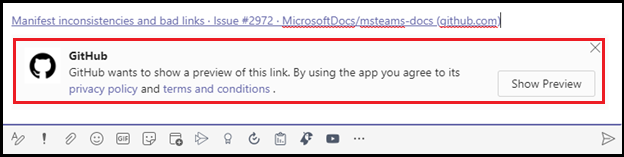
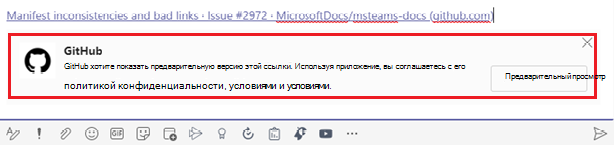
commit translated contents

Changed region(s): [[0.0, 0.0, 1.0, 1.0]]

diff --git a/msteams-platform/messaging-extensions/how-to/link-unfurling.md b/msteams-platform/messaging-extensions/how-to/link-unfurling.md
@@ -2,15 +2,15 @@
 title: Развертывание ссылки
 author: surbhigupta
 description: Узнайте, как добавить развертывание ссылок с расширением для сообщений в приложении Microsoft Teams с манифестом приложения или вручную с помощью примеров кода и образцов.
-ms.localizationpriority: high
+ms.localizationpriority: medium
 ms.topic: conceptual
 ms.author: anclear
-ms.openlocfilehash: b172320f6f116026fe5ea4b45c9c74da6ff82f07
-ms.sourcegitcommit: f15bd0e90eafb00e00cf11183b129038de8354af
+ms.openlocfilehash: 09b8447e68a07e98293409e6c371a301da3017d0
+ms.sourcegitcommit: 430bf416bb8d1b74f926c8b5d5ffd3dbb0782286
 ms.translationtype: HT
 ms.contentlocale: ru-RU
-ms.lasthandoff: 04/28/2022
-ms.locfileid: "65111250"
+ms.lasthandoff: 05/10/2022
+ms.locfileid: "65297186"
 ---
 # <a name="link-unfurling"></a>Развертывание ссылки
 
@@ -25,7 +25,7 @@ ms.locfileid: "65111250"
 
 Расширение для сообщений Azure DevOps использует развертывание ссылок для поиска URL-адресов, вставленных в область создания сообщений, указывающих на рабочий элемент. На следующем изображении пользователь вставил URL-адрес для рабочего элемента в Azure DevOps, который расширение для сообщения разрешило в карточку:
 
-![Пример развертывания ссылки](~/assets/images/compose-extensions/messagingextensions_linkunfurling.png)
+:::image type="content" source="~/assets/images/compose-extensions/messagingextensions_linkunfurling.png" alt-text="Пример развертывания ссылки":::
 
 ## <a name="add-link-unfurling-to-your-app-manifest"></a>Добавление развертывания ссылок в манифест приложения
 
@@ -38,9 +38,9 @@ ms.locfileid: "65111250"
 
 1. Откройте **App Studio** в клиенте Microsoft Teams и выберите вкладку **редактора манифеста**.
 1. Загрузите манифест вашего приложения.
-1. На странице **Расширения для сообщений** добавьте домен, который вы хотите найти, в разделе **Обработчики сообщений**. На изображении ниже даны пояснения по этому процессу.
+1. На странице **Расширения сообщений**, в разделе **Обработчики сообщений** добавьте домен, который необходимо найти. Процесс показан на следующем изображении:
 
-    ![раздел обработчиков сообщений в App Studio](~/assets/images/link-unfurling.png)
+    :::image type="content" source="~/assets/images/link-unfurling.png" alt-text="Раздел &quot;Обработчики сообщений&quot; в App Studio":::
 
 ### <a name="add-link-unfurling-manually"></a>Добавление развертывания ссылок вручную
 

diff --git a/msteams-platform/resources/bot-v3/bot-conversations/bots-conv-personal.md b/msteams-platform/resources/bot-v3/bot-conversations/bots-conv-personal.md
@@ -2,15 +2,15 @@
 title: Личные беседы с ботами
 description: Описан сквозной сценарий личного общения с ботом в Microsoft Teams
 keywords: сценарии teams личные один на один бот беседа
-ms.localizationpriority: high
+ms.localizationpriority: medium
 ms.topic: conceptual
 ms.date: 05/20/2019
-ms.openlocfilehash: d38285c212416d81a2108524946f0f9732a8dae9
-ms.sourcegitcommit: f15bd0e90eafb00e00cf11183b129038de8354af
+ms.openlocfilehash: eb08b542c707d9f520912cd04ca5b1b2b740d81c
+ms.sourcegitcommit: 430bf416bb8d1b74f926c8b5d5ffd3dbb0782286
 ms.translationtype: HT
 ms.contentlocale: ru-RU
-ms.lasthandoff: 04/28/2022
-ms.locfileid: "65111943"
+ms.lasthandoff: 05/10/2022
+ms.locfileid: "65297193"
 ---
 # <a name="have-a-personal-one-on-one-conversation-with-a-microsoft-teams-bot"></a>Личная беседа с ботом Microsoft Teams
 
@@ -33,4 +33,4 @@ Microsoft Teams позволяет пользователям участвова
 
 ## <a name="best-practice-welcome-messages-in-personal-conversations"></a>Рекомендация: приветственные сообщения в личных беседах
 
-Ваш бот должен [первым отправить](~/resources/bot-v3/bot-conversations/bots-conv-proactive.md) приветствие в личный чат (только в первый раз), когда пользователь инициирует личный чат с вашим ботом. Эта рекомендация не применяется к первым контактам, которые происходят в канале.
+Ваш бот должен [первым отправить](~/resources/bot-v3/bot-conversations/bots-conv-proactive.md) приветствие в личный чат (только в первый раз), когда пользователь инициирует личный чат с вашим ботом. Эта рекомендация не относится к первым контактам в канале.
